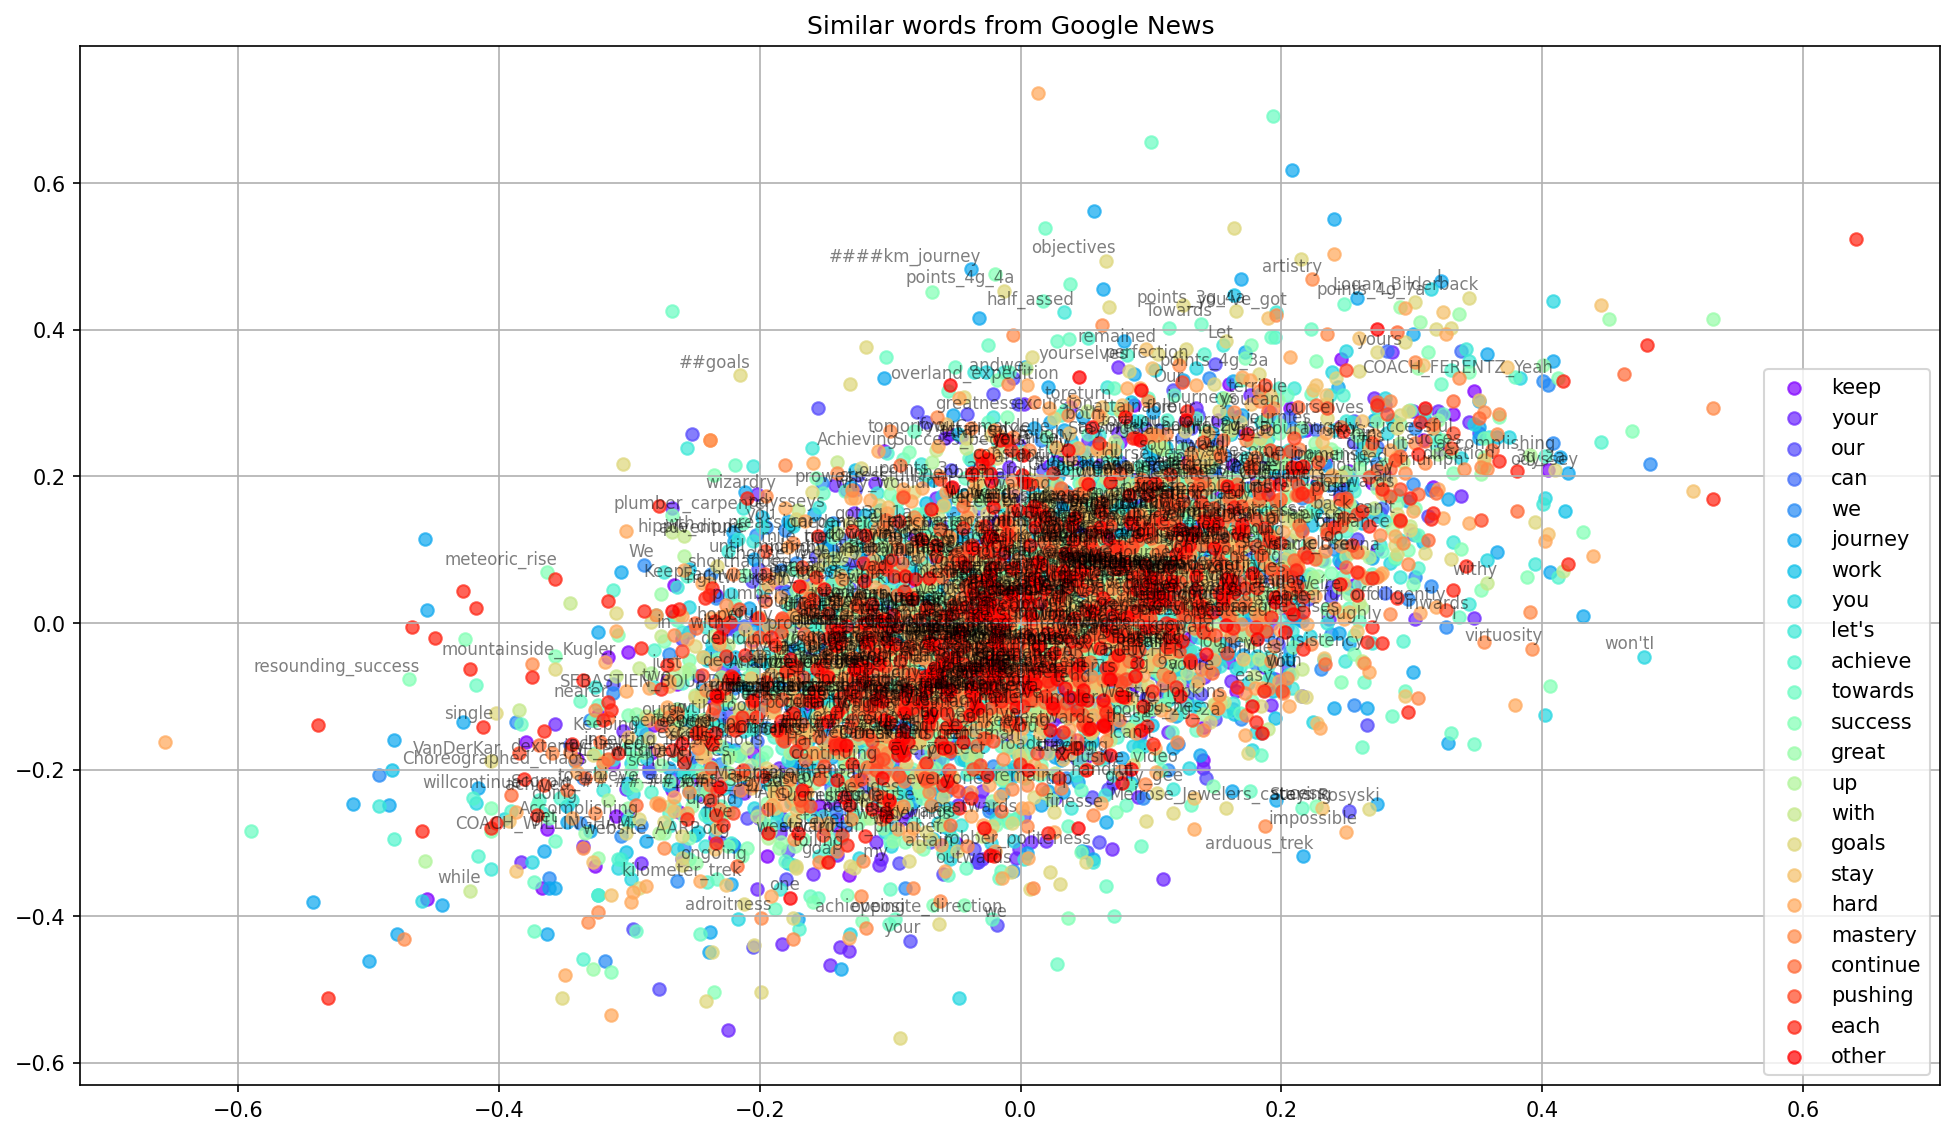
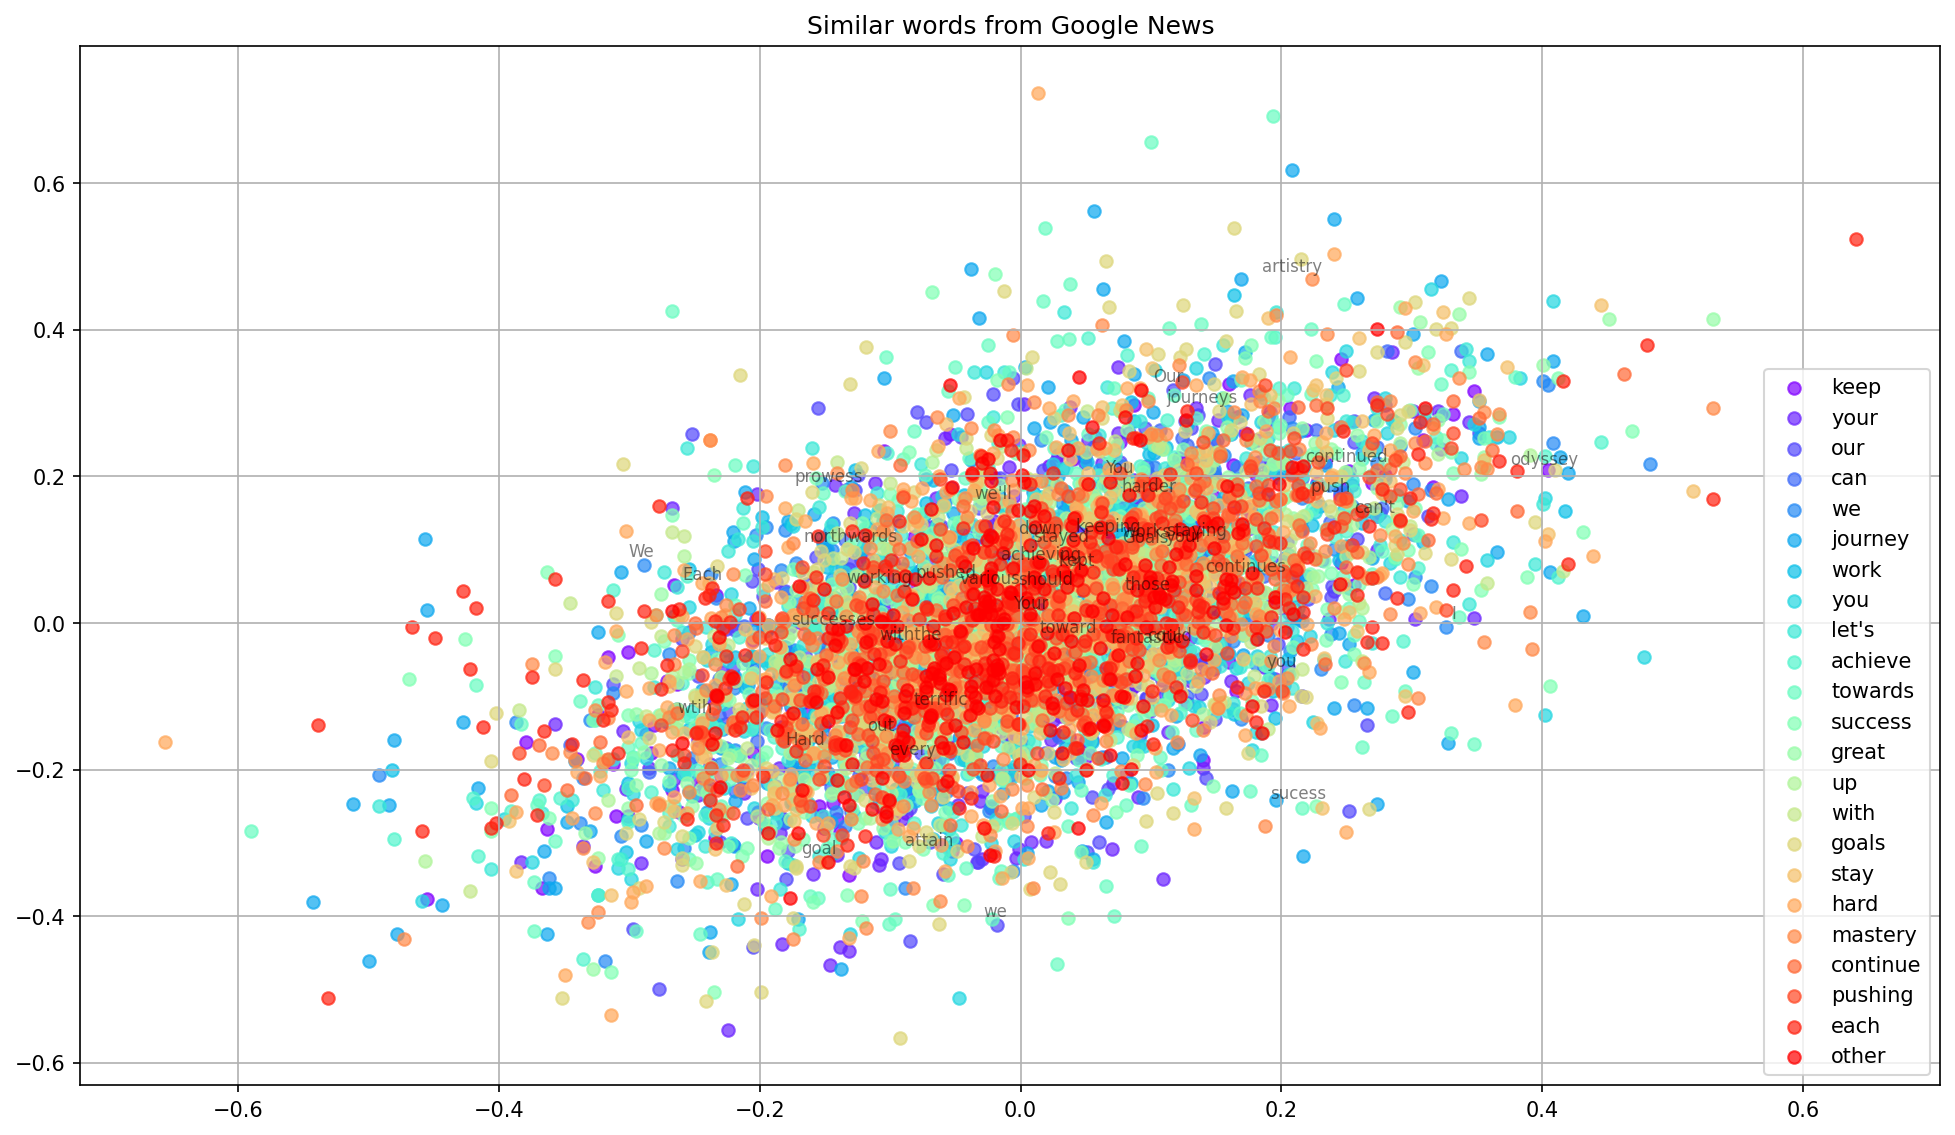
one plot script

diff --git a/script/plot.py b/script/plot.py
@@ -53,6 +53,7 @@ if __name__ == '__main__':
     parser = argparse.ArgumentParser(description="Pi LLM Output File Counter", formatter_class=argparse.ArgumentDefaultsHelpFormatter)
     parser.add_argument('--file', default=str, help="File name and path.")
     parser.add_argument('--p', default=int, help="perplexity.")
+    parser.add_argument('--topn', default=int, help="topn value.")
     args = parser.parse_args()
  
     if args.file.strip() != "":
@@ -67,6 +68,9 @@ if __name__ == '__main__':
         print(keys)
 
     ## we're not using perplexity...
+    TOPN = 30 
+    if args.topn != None and int(args.topn) > 0:
+        TOPN = int(args.topn)
 
     model = gensim.models.KeyedVectors.load_word2vec_format('../../GoogleNews-vectors-negative300.bin', binary=True)
 
@@ -75,7 +79,7 @@ if __name__ == '__main__':
     for word in keys:
         embeddings = []
         words = []
-        for similar_word, _ in model.most_similar(word, topn=30):
+        for similar_word, _ in model.most_similar(word, topn=TOPN):
             words.append(similar_word)
             embeddings.append(model[similar_word])
         embedding_clusters.append(embeddings)
